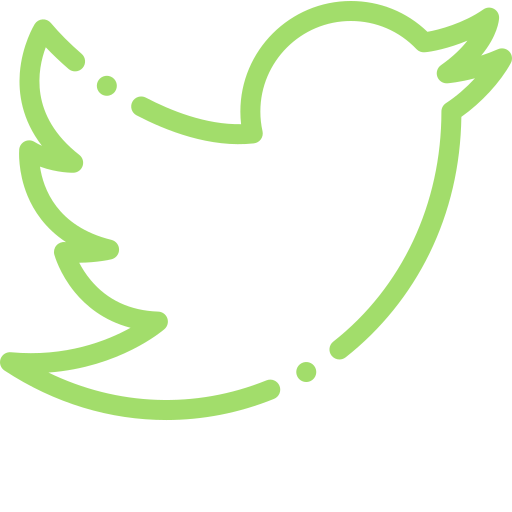
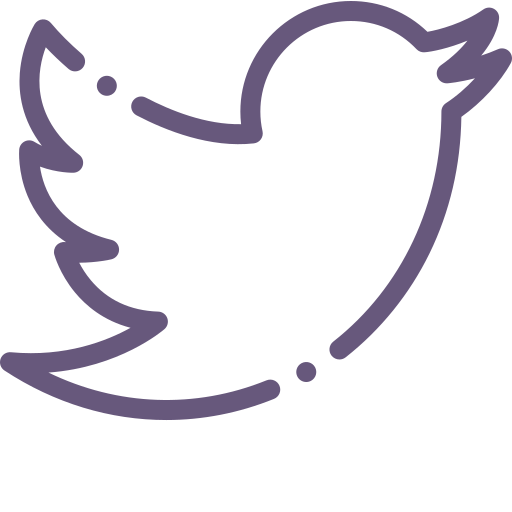
cambio form, color cards

Changed region(s): [[0.0, 0.0312, 0.5625, 0.8438], [0.25, 0.0, 1.0, 0.75], [0.1875, 0.125, 0.25, 0.1875]]

diff --git a/index.html b/index.html
@@ -31,7 +31,8 @@
         </div>
         <div class="container-descripcion">
             <h2>DrumSet</h2>
-            <p>Sitio dedicado a uno de los instrumentos mas importantes de la historia de la música en el cual trataremos de hacer una 
+            <p class="p-principal">Sitio dedicado a uno de los instrumentos mas importantes de la historia de la música
+                en el cual trataremos de hacer una
                 humilde eleccion entre las mejores 6 marcas del mundo.
             </p>
         </div>
@@ -41,16 +42,14 @@
             <img class="card-img" src="imagenes/pearl-drums.webp" alt="">
             <div class="container-descripcion-cards">
                 <h4>
-                    Pearl
+                    <strong>Pearl</strong>
                 </h4>
-                <ul class="ul-container-cards">
-                    <li>Serie: Master Maple Complete</li>
-                    <li>Color: Matte Black Mist</li>
-                    <li>Bombo: B20"x14</li>
-                    <li>Tom: TT10"x07</li>
-                    <li>Tom: TT12"x8</li>
-                    <li>Tom de piso: TF14"x12</li>
-                </ul>
+                <p>
+                    Comenzó en 1946, fundada por <strong>Katsumi Yanagisawa</strong> en Sumida-ku Tokio. En busca de un
+                    nombre sinónimo de valor y prestigio duraderos,
+                    Katsumi decidió llamar a su empresa Pearl. A partir de estos humildes comienzos, Pearl ha crecido
+                    hasta convertirse en el líder mundial icónico que es hoy.
+                </p>
             </div>
         </div>
         <div class="cards">
@@ -59,14 +58,13 @@
                 <h4>
                     Yamaha
                 </h4>
-                <ul class="ul-container-cards">
-                    <li>Serie: RDP2F5</li>
-                    <li>Color: Burgundy Glitter</li>
-                    <li>Bombo: 22” x 16”</li>
-                    <li>Tom: 12” x 8”/li>
-                    <li>Tom: 10” x 7”</li>
-                    <li>Tom de piso: 16” x 15”</li>
-                </ul>
+                <p>
+                    La marca Yamaha, proviene del nombre de su fundador, <strong>Torakusu Yamaha</strong>, quien fue
+                    pionero
+                    en la producción de instrumentos musicales occidentales en Japón. Nacido en una familia de un
+                    miembro del clan Kishu Tokugawa, Torakusu quedó cautivado por la
+                    ciencia y la tecnología occidentales desde el principio.
+                </p>
             </div>
         </div>
         <div class="cards">
@@ -75,15 +73,12 @@
                 <h4>
                     Mapex
                 </h4>
-                <ul class="ul-container-cards">
-                    <li>Serie: Saturn</li>
-                    <li>Color: Garner Flame</li>
-                    <li>Bombo: 22"x 18"</li>
-                    <li>Tom: 10"x7.5</li>
-                    <li>Tom: 12"x8</li>
-                    <li>Tom de piso: 14"x14</li>
-                    <li>Tom de piso: 16"x16</li>
-                </ul>
+                <p>
+                    La marca MAPEX fue creada como acrónimo de <strong>Music And Percussion EXcellence</strong> y
+                    refleja la
+                    comprensión de la relación entre un intérprete y su instrumento, el híbrido de maestría musical e
+                    instrumento que distingue a un gran músico de un gran intérprete.
+                </p>
             </div>
         </div>
         <div class="cards">
@@ -92,14 +87,13 @@
                 <h4>
                     Gretsch
                 </h4>
-                <ol class="ul-container-cards">
-                    <li>Serie: Catalina Maple</li>
-                    <li>Color: Amber Glaze</li>
-                    <li>Bombo: 22"x 18"</li>
-                    <li>Tom: 10"x7</li>
-                    <li>Tom: 12"x8</li>
-                    <li>Tom de piso: 16"x16</li>
-                </ol>
+                <p>
+                    En 1883, <strong>Friedrich Gretsch</strong> abrió una pequeña tienda de música en Brooklyn, Nueva
+                    York. A medida que
+                    la música estadounidense como la big band, el bebop jazz y el rock n' roll explotaron en el siglo
+                    siguiente, la insignia redonda de Gretsch Drums se convirtió en un símbolo icónico de la cultura
+                    popular
+                </p>
             </div>
         </div>
         <div class="cards">
@@ -108,13 +102,12 @@
                 <h4>
                     Tama
                 </h4>
-                <ul class="ul-container-cards">
-                    <li>Serie: Silverstar</li>
-                    <li>Color: Vintage Gold Duco</li>
-                    <li>Bombo: 18" x 14"</li>
-                    <li>Tom: 12" x 8"</li>
-                    <li>Tom de piso: 14" x 14"</li>
-                </ul>
+                <p>
+                    Tama Drums es una marca de la empresa japonesa Hoshino Gakki, fundada en 1908 por <strong>Matsujiro
+                        Hoshino</strong>
+                    como librería con ventas de partituras. En 1962, Junpei Hoshino, el nieto del fundador, inició la
+                    fábrica Tama Seisakusho, para producir guitarras eléctricas, amplificadores y baterías.
+                </p>
             </div>
         </div>
         <div class="cards">
@@ -123,14 +116,15 @@
                 <h4>
                     Ludwing
                 </h4>
-                <ul class="ul-container-cards">
-                    <li>Serie: Exotic</li>
-                    <li>Color: Dark Brown</li>
-                    <li>Bombo: 22"x 18"</li>
-                    <li>Tom: 8x10</li>
-                    <li>Tom: 9x10</li>
-                    <li>Tom de piso: 16"x16</li>
-                </ul>
+                <p>
+                    1909 – William F. y Theobald Ludwig fundan Ludwig & Ludwig Drum Company.
+                    <br>
+                    1909 – Ludwig fabrica el primer pedal de bombo Ludwig.
+                    <br>
+                    1911 – Ludwig presenta su primer modelo de timbales.
+                    <br>
+                    1918 – Theobald Ludwig fallece en la Gran Epidemia de Gripe.
+                </p>
             </div>
         </div>
     </section>
@@ -141,19 +135,23 @@
         <div class="container-form">
             <h3>Contacto</h3>
             <form>
-                <input type="text" placeholder="Nombre completo">
-                <input type="mail" placeholder="Email">
-                <input type="text" placeholder="Mensaje">
+                <input type="text" placeholder="Nombre completo" required>
+                <input type="mail" placeholder="Email" required>
+                <input type="text" placeholder="Mensaje" required>
                 <button>Enviar</button>
             </form>
         </div>
     </section>
     <footer>
         <ul>
-            <li><a href="#"><img class="logo-footer" src="imagenes/whatsapp.png"></a></li>
-            <li><a href="#"><img class="logo-footer" src="imagenes/logotipo-de-instagram.png"></a></li>
-            <li><a href="#"><img class="logo-footer" src="imagenes/facebook.png"></a></li>
-            <li><a href="#"><img class="logo-footer" src="imagenes/gorjeo.png"></a></li>
+            <li><a href="https://www.whatsapp.com/" target="_blank"><img class="logo-footer"
+                        src="imagenes/whatsapp.png"></a></li>
+            <li><a href="https://www.instagram.com/" target="_blank"><img class="logo-footer"
+                        src="imagenes/logotipo-de-instagram.png"></a></li>
+            <li><a href="https://www.facebook.com/" target="_blank"><img class="logo-footer"
+                        src="imagenes/facebook.png"></a></li>
+            <li><a href="https://twitter.com/" target="_blank"><img class="logo-footer" src="imagenes/gorjeo.png"></a>
+            </li>
         </ul>
     </footer>
 </body>

diff --git a/css/style.css b/css/style.css
@@ -11,7 +11,7 @@ nav {
     height: 5em;
     display: flex;
     justify-content: space-between;
-    background-color: #231a58;
+    background-color: #afbdc5;
 }
 
 .div-a {
@@ -33,7 +33,11 @@ h1 {
 }
 
 h2 {
-    font-size: 2em;
+    font-size: 3em;
+}
+
+.p-principal {
+    font-size: 1.5em;
 }
 
 ul {
@@ -51,7 +55,7 @@ a {
     justify-content: center;
     align-items: center;
     text-decoration: none;
-    color: #a2dd6b;
+    color: #67587c;
 }
 
 .a-nav {
@@ -62,8 +66,8 @@ a {
 
 .principal {
     display: flex;
-    background-color: #a2dd6b;
-    color: #231a58;
+    background-color: #afbdc5;
+    color: #67587c;
 }
 
 .container-img-principal {
@@ -91,7 +95,7 @@ a {
     flex-wrap: wrap;
     padding: 1em;
     justify-content: center;
-    background-color: #231a58;
+    background-color: #67587c;
 }
 
 .cards {
@@ -110,35 +114,30 @@ a {
 }
 
 h4 {
-    font-size: 1.5em;
+    font-size: 2em;
 }
 
 .container-descripcion-cards {
     display: flex;
     flex-direction: column;
-    justify-content: center;
-    align-items: center;
     min-height: 40%;
     border-radius: 10px;
-    background-color: #a2dd6b;
-    color: #231a58;
-}
-
-.ul-container-cards {
-    display: flex;
-    flex-direction: column;
+    background-color: #afbdc5;
+    color: #251b34;
+    padding: 1.5em;
+    justify-content: center;
 }
 
 .formulario {
     display: flex;
     justify-content: space-evenly;
     align-items: center;
-    background-color: #a2dd6b;
-    color: #231a58;
+    background-color: #afbdc5;
+    color: #67587c;
 }
 
-input {
-    width: 40em;
+h3{
+    font-size: 2.5em;
 }
 
 form {
@@ -146,10 +145,18 @@ form {
     flex-direction: column;
 }
 
-button, input{
-    color: #231a58;
+button,
+input {
+    color: #67587c;
     background: transparent;
-    border: 1px solid #231a58;
+    border: 1px solid #67587c;
+    width: 40em;
+    height: 3em;
+}
+
+button:hover{
+    background-color: #67587c;
+    color: #afbdc5;
 }
 
 .container-form {
@@ -160,7 +167,7 @@ button, input{
 
 footer {
     height: 5em;
-    background-color: #231a58;
+    background-color: #afbdc5;
 }
 
 .logo-footer {
